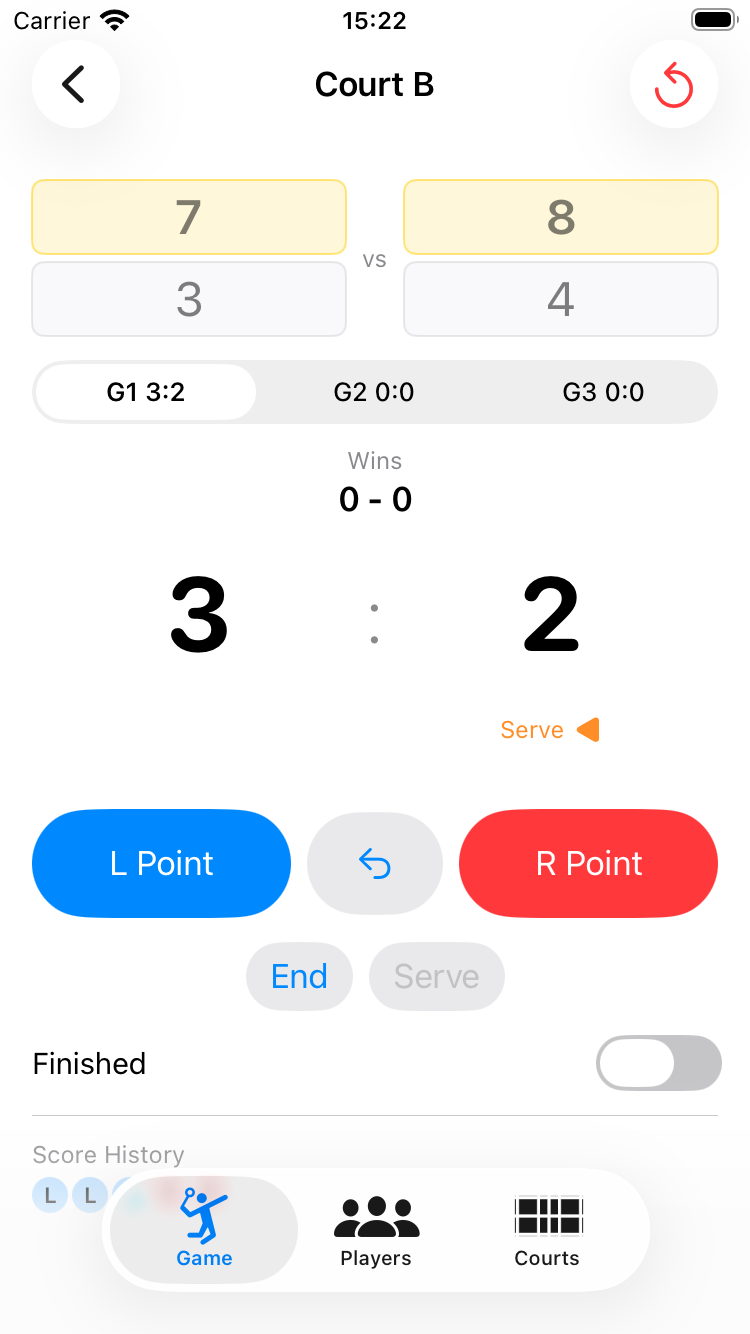
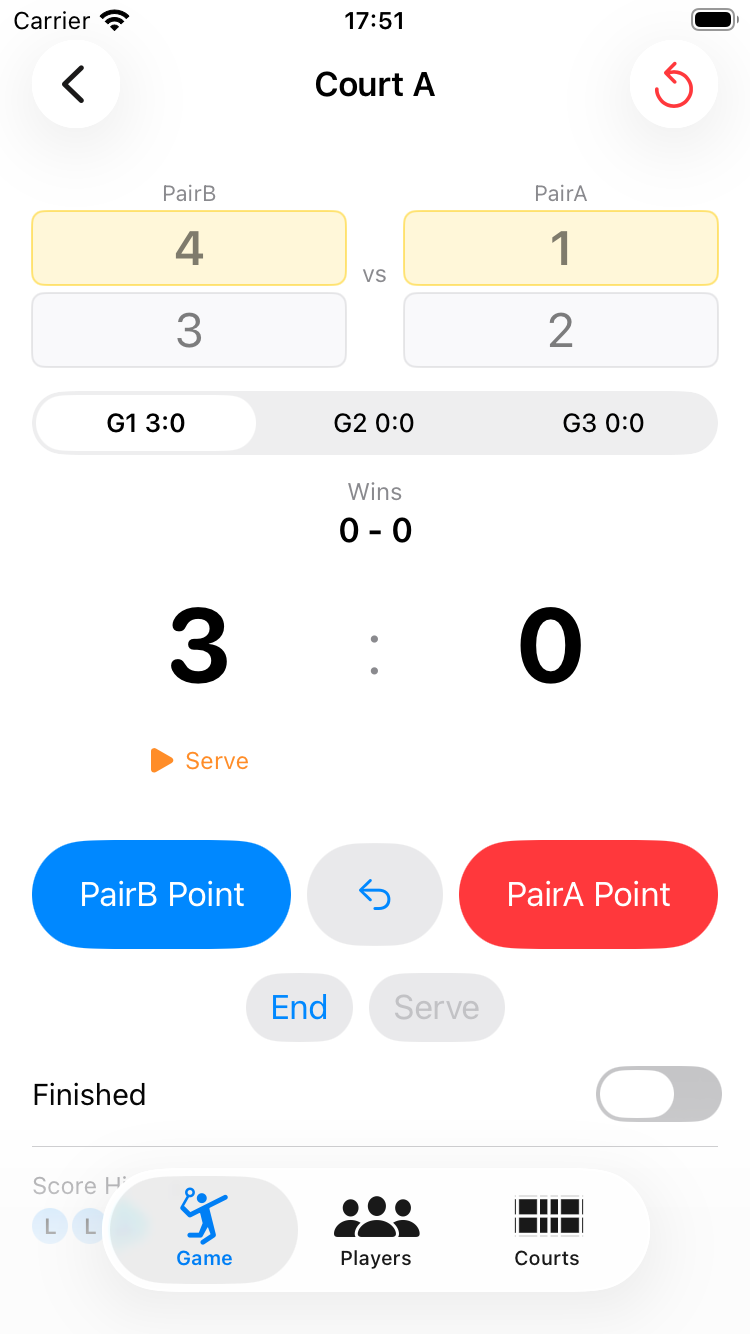
PairA/PairB表記の変更をドキュメントに反映
スコア入力画面のPairA/PairBラベル・得点ボタンの変更を
game-tab.html、更新履歴に追記。スクリーンショットも
新しいUIのものに差し替え。

diff --git a/game-tab.html b/game-tab.html
@@ -74,11 +74,11 @@
 <div class="tip">💡 プレイヤーごと最初からやり直したい場合は、Players タブの「プレイヤーのリセット」をご利用ください。</div>
 
 <h2 id="score-input">5. スコア入力</h2>
-<p>Game タブのゲーム行をタップすると、スコア入力画面が開きます。</p>
+<p>Game タブのゲーム行をタップすると、スコア入力画面が開きます。上部のプレイヤー表示には、それぞれ <strong>PairA</strong> / <strong>PairB</strong>（内部の pairA・pairB に対応）のラベルが付きます。</p>
 <div class="ss"><img src="images/score-main.png" alt="スコア入力画面"></div>
 
 <h3 id="input-score">得点を入力する</h3>
-<p>画面右側の <code>L Point</code>（得点 L）または <code>R Point</code>（得点 R）ボタンをタップすると、左・右チームに1点が加算されます。</p>
+<p>画面下部の <code>PairA Point</code>（得点 PairA）または <code>PairB Point</code>（得点 PairB）ボタンをタップすると、それぞれのペアに1点が加算されます。ボタンは画面左右の位置に固定されており、後述のエンドチェンジでペアが入れ替わると、ボタンのラベルもそれに合わせて切り替わります。</p>
 <p>得点に合わせてサーブ権が自動で切り替わり、サーブ権を持つプレイヤーが青色で表示されます。</p>
 <div class="tip">💡 得点は最大 30 点まで入力できます。</div>
 
@@ -92,7 +92,7 @@
 <p><code>Finished</code>（終了）トグルをオンにするとそのゲームが終了扱いになり、勝利ゲーム数に反映されます。</p>
 
 <h3 id="end-change">エンドチェンジ</h3>
-<p><code>End</code>（エンド）ボタンをタップすると、左右のペアが入れ替わります（エンドチェンジ）。スコア履歴のドットも自動で反転します。</p>
+<p><code>End</code>（エンド）ボタンをタップすると、左右のペアが入れ替わります（エンドチェンジ）。<strong>PairA</strong> / <strong>PairB</strong> のラベルや得点ボタンの表示も、実際にどちらの位置にいるかに合わせて自動的に入れ替わります。スコア履歴のドットも自動で反転します。</p>
 
 <h3 id="serve">サーブ権を変更する</h3>
 <p>ゲーム開始前（まだ得点が入っていない状態）に限り、<code>Serve</code>（サーブ）ボタンでサービス権チームを入れ替えられます。また、プレイヤー名をタップすると、同ペア内でサーバーとレシーバーを入れ替えられます。</p>

diff --git a/update-history.html b/update-history.html
@@ -21,6 +21,7 @@
   <li>組み合わせ生成で、直前のラウンドと同じ2人が続けてパートナー同士になってしまうことがある不具合を修正</li>
   <li>アプリ内「Help」ボタンのリンク先を、新しいヘルプページ（GitHub Pages）に変更</li>
   <li>コートが2面以上あっても、有効なプレイヤーが少ない状態でフリーモードに切り替えられてしまう不具合を修正（8人以上必要）</li>
+  <li>スコア入力画面のプレイヤー表示に PairA / PairB のラベルを追加し、どちらのペアかを一目で分かるように変更。得点ボタンも「L Point」「R Point」から「PairA Point」「PairB Point」に変更（エンドチェンジに応じて表示が自動的に入れ替わります）</li>
 </ul>
 
 <h2>v1.19.0</h2>
